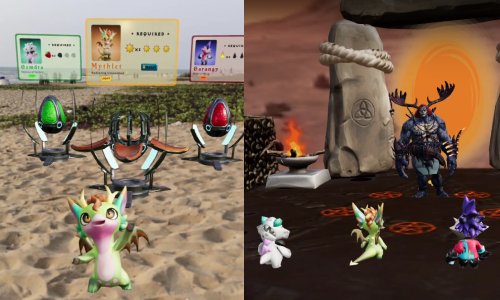
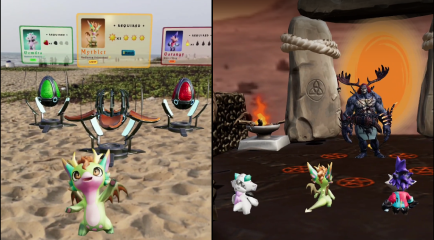
Update : image res changes | Gif

diff --git a/projects/index.html b/projects/index.html
@@ -47,7 +47,7 @@
         <div class="project-wrapper">
             <h2>AR Prototype</h2>
             <div class="project-container">
-                <div class="project-element"><img src="../resources/projects/ornithopter.png" alt=""><div class="item-title">Dune Flight Model</div></div>
+                <div class="project-element"><img src="../resources/projects/ornithopter.gif" alt=""><div class="item-title">Dune Flight Model</div></div>
                 <div class="project-element"><img src="../resources/projects/animus.png" alt=""><div class="item-title">Dune Flight Model</div></div>
             </div>
         </div>
@@ -66,7 +66,7 @@
                 <div class="project-element"><img src="../resources/projects/drone.gif" alt=""><div class="item-title">Dune Flight Model</div></div>
                 <div class="project-element"><img src="../resources/projects/hydropower.gif" alt=""><div class="item-title">Dune Flight Model</div></div>
                 <div class="project-element"><img src="../resources/projects/abstract liquid.png" alt=""><div class="item-title">Dune Flight Model</div></div>
-                <div class="project-element"><img src="../resources/projects/Abstract cube.jpg" alt=""><div class="item-title">Dune Flight Model</div></div>
+                <div class="project-element"><img src="../resources/projects/Abstract cube.png" alt=""><div class="item-title">Dune Flight Model</div></div>
             </div>
         </div>
     </section>
